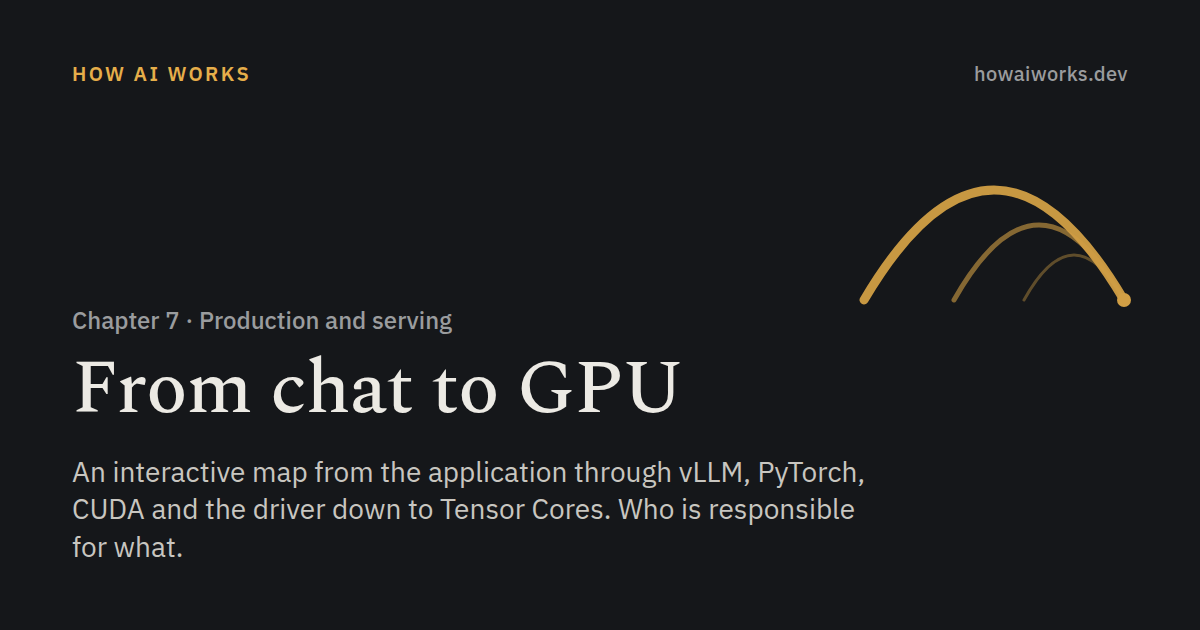
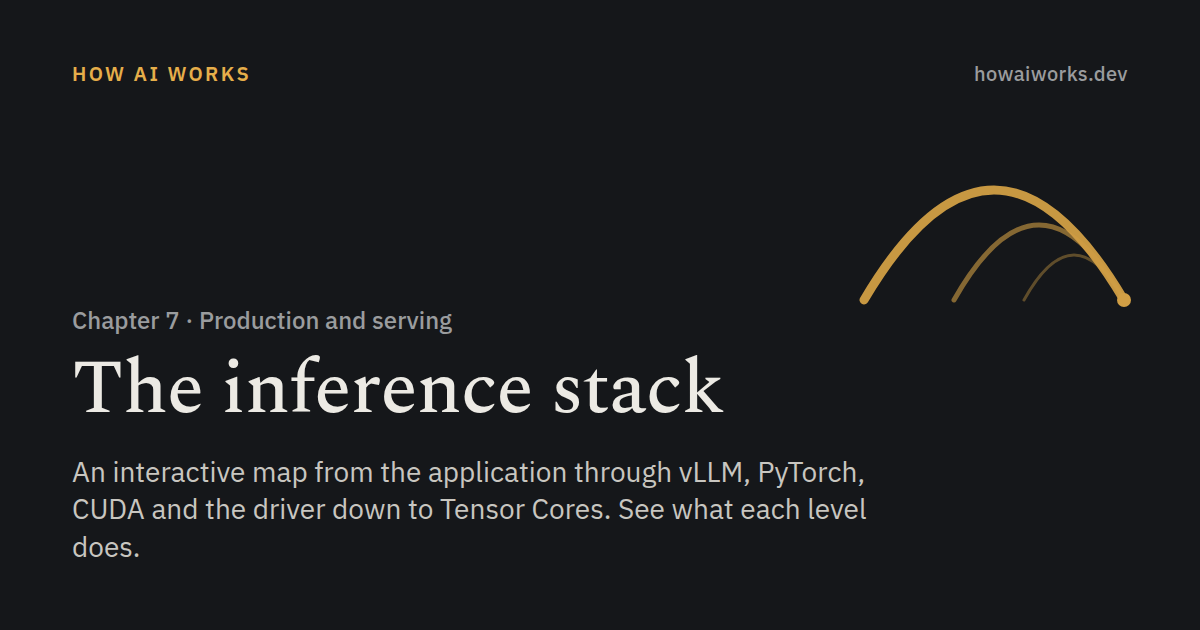
Inference stack: new name, first in the chapter, clearer level descriptions

Changed region(s): [[0.0617, 0.573, 0.6167, 0.6635], [0.4933, 0.7841, 0.74, 0.8444], [0.0617, 0.8444, 0.1542, 0.9048]]

diff --git a/src/scripts/app.js b/src/scripts/app.js
@@ -2168,13 +2168,13 @@ const GEO=[
  n:[['hi',70,22,200,40],['warp',16,106,308,36],['tc',16,150,150,40],['fp',174,150,150,40],['hbm',8,240,216,42],['nvl',232,240,100,42]],
  e:[['170,62 170,106','q','threads',176,80,'start','hi warp'],['70,240 70,198','s','read',76,223,'start','hbm tc fp'],['170,198 170,240','r','wlog',176,223,'start','hbm tc fp'],['282,198 282,240','q',0,0,0,0,'nvl'],['282,282 282,312','q','others',276,304,'end','nvl']]}];
 const T=tr({lv:[
- {n:'System',q:'Kto z kim rozmawia?',fr:'Żądanie raz, odpowiedź strumieniem',dec:'co wysłać do modelu i co zrobić z odpowiedzią',blind:'jak model liczy',rl:'Żądanie HTTP',req:'POST /v1/chat/completions\n{"model": "qwen3", "stream": true,\n "messages": [{"role": "user",\n   "content": "Stolica Polski?"}]}'},
- {n:'Klaster',q:'Która kopia modelu dostanie żądanie?',fr:'Raz na żądanie',dec:'wpuszczenie żądania i wybór repliki',blind:'co dzieje się w replice',fact:'3 repliki × 4 GPU = 12 GPU, po jednej replice na węzeł',rl:'To samo żądanie po bramce',req:'model:   qwen3 -> qwen3-prod\napi_key: ok\nreplica: vllm-2   # jedna z 3'},
- {n:'Serwer',q:'Które rozmowy przetwarzamy w tym kroku?',fr:'Tokenizacja raz, pozostałe operacje co krok dla całego batcha',dec:'skład batcha i przydział pamięci w każdym kroku',blind:'co znaczy tekst: scheduler widzi liczby tokenów i bloki pamięci',rl:'Tokeny i stan rozmowy',req:'prompt_token_ids: [151644, 872, …]\nstatus: WAITING -> RUNNING\nprefill: # prompt, 1 krok lub więcej\ndecode:  # potem po 1 tokenie'},
- {n:'Model',q:'Jak z tokenów powstają logity?',fr:'Co krok, dla całego batcha',dec:'stałą sekwencję operacji, a wynik wyznaczają wagi',blind:'kim są użytkownicy: rozmowy to wiersze w tensorze',rl:'Tensory: 8 rozmów, po 1 nowym tokenie',req:'tokens.shape  = [8, 1]\nhidden.shape  = [8, 1, 4096]\nlogits.shape  = [8, 151936]\nnext_ids.shape = [8]'},
- {n:'Biblioteki',q:'Kto zamienia operację na kod dla GPU?',fr:'Co krok, dla całego batcha',dec:'wybór kodu dla operacji na tensorach i jego uruchomienie',blind:'co znaczą tensory: tokeny rozumowania to zwykłe liczby',rl:'Jedno mnożenie macierzy z attention',req:'y = x @ W          # PyTorch\ngemm(x, W, y)      # cuBLAS\nlaunch(kernel_k)   # CUDA\n# x, W i y są już w pamięci GPU'},
- {n:'Sterownik',q:'Jak polecenie dociera do sprzętu?',fr:'Najpierw przygotowanie zasobów, potem polecenia',dec:'dostęp do GPU, mapowanie pamięci i dostarczenie poleceń',blind:'co robi program: widzi kanały, bufory i adresy',rl:'Uruchomienie kernela jako polecenia',req:'pushbuffer: LAUNCH kernel_k\nGPFIFO:     entry -> pushbuffer\ndoorbell:   write channel_id'},
- {n:'GPU',q:'Co oblicza GPU?',fr:'Co krok, dla całego batcha',dec:'wykonanie poleceń tak szybko, jak pozwala pamięć',blind:'że istnieją tokeny, rozmowy i modele',rl:'Jedna instrukcja',req:'MMA: C = A × B + C\n# pomnóż i dodaj, na małych blokach\n# macierzy, w wielu Tensor Cores naraz'}],
+ {n:'System',q:'Kto z kim rozmawia?',fr:'raz na żądanie, potem odbiera strumień',dec:'wysłanie historii i pokazanie odpowiedzi',blind:'jak powstaje odpowiedź',rl:'Żądanie HTTP',req:'POST /v1/chat/completions\n{"model": "qwen3", "stream": true,\n "messages": [{"role": "user",\n   "content": "Stolica Polski?"}]}'},
+ {n:'Klaster',q:'Która replika dostanie żądanie?',fr:'raz na żądanie',dec:'wpuszczenie żądania i wybór repliki',blind:'jak replika liczy odpowiedź',fact:'3 repliki × 4 GPU = 12 GPU, po jednej replice na węzeł',rl:'To samo żądanie po bramce',req:'model:   qwen3 -> qwen3-prod\napi_key: ok\nreplica: vllm-2   # jedna z 3'},
+ {n:'Serwer',q:'Jak serwer steruje generowaniem?',fr:'tokenizacja raz, reszta w każdym kroku',dec:'tokenizację, skład batcha, pamięć i warunki końca',blind:'co znaczy tekst: scheduler widzi tokeny i bloki pamięci',rl:'Tokeny i stan rozmowy',req:'prompt_token_ids: [151644, 872, …]\nstatus: WAITING -> RUNNING\nprefill: # prompt, 1 krok lub więcej\ndecode:  # potem po 1 tokenie'},
+ {n:'Model',q:'Jak z tokenów powstają logity?',fr:'w każdym kroku',dec:'przeliczenie tokenów na logity przez wagi',blind:'kim są użytkownicy: rozmowy to wiersze w tensorze',rl:'Tensory: 8 rozmów, po 1 nowym tokenie',req:'tokens.shape  = [8, 1]\nhidden.shape  = [8, 1, 4096]\nlogits.shape  = [8, 151936]\nnext_ids.shape = [8]'},
+ {n:'Biblioteki',q:'Kto wybiera i uruchamia kod na GPU?',fr:'w każdym kroku, wiele razy',dec:'wybór kernela i jego uruchomienie',blind:'co znaczą tensory: tokeny rozumowania to zwykłe liczby',rl:'Jedno mnożenie macierzy z attention',req:'y = x @ W          # PyTorch\ngemm(x, W, y)      # cuBLAS\nlaunch(kernel_k)   # CUDA\n# x, W i y są już w pamięci GPU'},
+ {n:'Sterownik',q:'Jak polecenie dociera do GPU?',fr:'najpierw przygotowanie, potem każde polecenie',dec:'mapowanie pamięci i dostarczenie poleceń',blind:'co liczy program: widzi kanały, bufory i adresy',rl:'Uruchomienie kernela jako polecenia',req:'pushbuffer: LAUNCH kernel_k\nGPFIFO:     entry -> pushbuffer\ndoorbell:   write channel_id'},
+ {n:'GPU',q:'Co naprawdę liczy GPU?',fr:'w każdym kroku, wiele razy',dec:'mnożenia macierzy i inne operacje kerneli',blind:'że istnieją tokeny, rozmowy i modele',rl:'Jedna instrukcja',req:'MMA: C = A × B + C\n# pomnóż i dodaj, na małych blokach\n# macierzy, w wielu Tensor Cores naraz'}],
  b:{app:'Twój system',api:'Dostawca albo klaster',cluster:'Klaster Kubernetes',node1:'Węzeł GPU',node2:'Węzeł GPU',node3:'Węzeł GPU',pod:'Pod: jedna replika vLLM',papi:'Proces API',pengine:'Proces silnika',pworker:'Proces roboczy × 4',step:'Jeden krok modelu',layers:'Warstwy (np. 40)',mem:'Pamięć GPU',libs:'Biblioteki z obrazu, w procesie roboczym',ckern:'Kernele GPU',uspace:'Proces roboczy: przestrzeń użytkownika',kernel:'Jądro Linuksa na hoście',gpu:'GPU: czyta polecenia z kanału',card:'NVIDIA H100 SXM5, jeden z 4 w replice',sm:'132 jednostki SM'},
  e:{msg:'wiadomość',text:'tekst',https:'HTTPS: cała historia',sse:'SSE: fragmenty',openai:'format OpenAI',zmq:'ZMQ: tokeny',newtok:'nowe tokeny',step:'rozmowy i maski',picked:'wybrane tokeny',logits:'logity do samplera',matmul:'x @ W',attnk:'attention',launch:'uruchom',todrv:'polecenia do sterownika',once:'inicjalizacja: ioctl, mmap',conf:'konfiguracja',bell:'doorbell: zapis do pamięci',threads:'kernel w wątkach',read:'wagi, KV cache',wlog:'logity',others:'pozostałe 3 GPU'},
  leg:['żądanie','odpowiedź','start, odczyt'],
@@ -2217,13 +2217,13 @@ const T=tr({lv:[
   hbm:['HBM3','80 GB, ok. 3,35 TB/s','Pamięć GPU. Przy generowaniu ogranicza prędkość częściej niż moc obliczeniowa. Szczegóły w „Czemu GPU się nudzi”.'],
   nvl:['NVLink','900 GB/s','Łącze między GPU tej samej repliki. Przy tensor parallelism GPU wymieniają nim wyniki pośrednie w każdym kroku.']}
 },{lv:[
- {n:'System',q:'Who talks to whom?',fr:'Request once, response streamed',dec:'what to send to the model and what to do with the answer',blind:'how the model computes',rl:'HTTP request',req:'POST /v1/chat/completions\n{"model": "qwen3", "stream": true,\n "messages": [{"role": "user",\n   "content": "Capital of Poland?"}]}'},
- {n:'Cluster',q:'Which copy of the model gets the request?',fr:'Once per request',dec:'admitting the request and picking a replica',blind:'what happens in a replica',fact:'3 replicas × 4 GPUs = 12 GPUs, one replica per node',rl:'The same request after the gateway',req:'model:   qwen3 -> qwen3-prod\napi_key: ok\nreplica: vllm-2   # one of 3'},
- {n:'Server',q:'Which conversations run in this step?',fr:'Tokenisation once per request, other work at every step',dec:'batch composition and memory allocation at each step',blind:'what the text means: the scheduler sees token counts and memory blocks',rl:'Tokens and conversation state',req:'prompt_token_ids: [151644, 872, …]\nstatus: WAITING -> RUNNING\nprefill: # the prompt, 1 step or more\ndecode:  # then 1 token each'},
- {n:'Model',q:'How do tokens become logits?',fr:'At every step, for the whole batch',dec:'running a fixed sequence of operations; the weights set the result',blind:'who the users are: conversations are rows in a tensor',rl:'Tensors: 8 conversations, 1 new token each',req:'tokens.shape  = [8, 1]\nhidden.shape  = [8, 1, 4096]\nlogits.shape  = [8, 151936]\nnext_ids.shape = [8]'},
- {n:'Libraries',q:'What turns an operation into GPU code?',fr:'At every step, for the whole batch',dec:'choosing the code for a tensor operation and launching it',blind:'what the tensors mean: reasoning tokens are plain numbers',rl:'One matrix multiplication from attention',req:'y = x @ W          # PyTorch\ngemm(x, W, y)      # cuBLAS\nlaunch(kernel_k)   # CUDA\n# x, W and y are already in GPU memory'},
- {n:'Driver',q:'How does a command reach the hardware?',fr:'Resources set up first, then commands',dec:'access to the GPU, memory mapping and delivering commands',blind:'what the program does: it sees channels, buffers and addresses',rl:'A kernel launch as a command',req:'pushbuffer: LAUNCH kernel_k\nGPFIFO:     entry -> pushbuffer\ndoorbell:   write channel_id'},
- {n:'GPU',q:'What does the GPU compute?',fr:'At every step, for the whole batch',dec:'running commands as fast as memory allows',blind:'that tokens, conversations and models exist',rl:'One instruction',req:'MMA: C = A × B + C\n# multiply and add, on small matrix\n# blocks, in many Tensor Cores at once'}],
+ {n:'System',q:'Who talks to whom?',fr:'once per request, then receives the stream',dec:'sending the history and showing the answer',blind:'how the answer is produced',rl:'HTTP request',req:'POST /v1/chat/completions\n{"model": "qwen3", "stream": true,\n "messages": [{"role": "user",\n   "content": "Capital of Poland?"}]}'},
+ {n:'Cluster',q:'Which replica gets the request?',fr:'once per request',dec:'admitting the request and picking a replica',blind:'how a replica computes the answer',fact:'3 replicas × 4 GPUs = 12 GPUs, one replica per node',rl:'The same request after the gateway',req:'model:   qwen3 -> qwen3-prod\napi_key: ok\nreplica: vllm-2   # one of 3'},
+ {n:'Server',q:'How does the server control generation?',fr:'tokenising once, the rest at every step',dec:'tokenisation, the batch, memory and stop checks',blind:'what the text means: the scheduler sees tokens and memory blocks',rl:'Tokens and conversation state',req:'prompt_token_ids: [151644, 872, …]\nstatus: WAITING -> RUNNING\nprefill: # the prompt, 1 step or more\ndecode:  # then 1 token each'},
+ {n:'Model',q:'How do tokens become logits?',fr:'at every step',dec:'turning tokens into logits using the weights',blind:'who the users are: conversations are rows in a tensor',rl:'Tensors: 8 conversations, 1 new token each',req:'tokens.shape  = [8, 1]\nhidden.shape  = [8, 1, 4096]\nlogits.shape  = [8, 151936]\nnext_ids.shape = [8]'},
+ {n:'Libraries',q:'What picks and launches GPU code?',fr:'at every step, many times',dec:'choosing a kernel and launching it',blind:'what the tensors mean: reasoning tokens are plain numbers',rl:'One matrix multiplication from attention',req:'y = x @ W          # PyTorch\ngemm(x, W, y)      # cuBLAS\nlaunch(kernel_k)   # CUDA\n# x, W and y are already in GPU memory'},
+ {n:'Driver',q:'How does a command reach the GPU?',fr:'setup first, then every command',dec:'memory mapping and delivering commands',blind:'what the program computes: it sees channels, buffers and addresses',rl:'A kernel launch as a command',req:'pushbuffer: LAUNCH kernel_k\nGPFIFO:     entry -> pushbuffer\ndoorbell:   write channel_id'},
+ {n:'GPU',q:'What does the GPU actually compute?',fr:'at every step, many times',dec:'matrix multiplications and other kernel operations',blind:'that tokens, conversations and models exist',rl:'One instruction',req:'MMA: C = A × B + C\n# multiply and add, on small matrix\n# blocks, in many Tensor Cores at once'}],
  b:{app:'Your system',api:'Provider or your cluster',cluster:'Kubernetes cluster',node1:'GPU node',node2:'GPU node',node3:'GPU node',pod:'Pod: one vLLM replica',papi:'API process',pengine:'Engine process',pworker:'Worker × 4',step:'One model step',layers:'Layers (e.g. 40)',mem:'GPU memory',libs:'Libraries from the image, in the worker',ckern:'Compute kernels',uspace:'Worker process: user space',kernel:'Linux kernel on the host',gpu:'GPU: reads commands from the channel',card:'NVIDIA H100 SXM5, one of 4 in the replica',sm:'132 SM units'},
  e:{msg:'message',text:'text',https:'HTTPS: full history',sse:'SSE: fragments',openai:'OpenAI format',zmq:'ZMQ: tokens',newtok:'new tokens',step:'conversations, masks',picked:'picked tokens',logits:'logits to the sampler',matmul:'x @ W',attnk:'attention',launch:'launch',todrv:'commands to the driver',once:'initialisation: ioctl, mmap',conf:'configuration',bell:'doorbell: memory write',threads:'kernel in threads',read:'weights, KV cache',wlog:'logits',others:'the other 3 GPUs'},
  leg:['request','response','setup, reads'],
@@ -2335,8 +2335,8 @@ view.append(head,main,req);
 const lvBtns=T.lv.map((v,i)=>h('button',{type:'button',class:'opt','aria-label':tr('Poziom ','Level ')+(i+1)+': '+v.n,onclick:()=>{if(i!==cur)pl.set(ST.findIndex(s=>s[0]===i));}},h('b',{},i+1),h('small',{},v.n)));nav.append(...lvBtns);
 const draw=()=>{const l=T.lv[cur],g=GEO[cur],[name,,text]=T.n[sel];
   lvBtns.forEach((e,i)=>e.setAttribute('aria-pressed',i===cur?'true':'false'));
-  head.replaceChildren(...[h('p',{class:'sk-head'},h('b',{},tr('Poziom ','Level ')+(cur+1)+'. '+l.n),' '+l.q),h('p',{class:'sk-freq'},l.fr),
-    h('dl',{class:'id-res sk-res'},h('div',{},h('dt',{},tr('Odpowiada za','Responsible for')),h('dd',{},l.dec)),h('div',{},h('dt',{},tr('Nie wie','Doesn’t know')),h('dd',{},l.blind))),
+  head.replaceChildren(...[h('p',{class:'sk-head'},h('b',{},tr('Poziom ','Level ')+(cur+1)+'. '+l.n),' '+l.q),
+    h('dl',{class:'id-res sk-res'},h('div',{},h('dt',{},tr('Odpowiada za','Responsible for')),h('dd',{},l.dec)),h('div',{},h('dt',{},tr('Nie wie','Doesn’t know')),h('dd',{},l.blind)),h('div',{},h('dt',{},tr('Kiedy działa','When it runs')),h('dd',{},l.fr))),
     l.fact?h('p',{class:'sk-fact'},l.fact):null].filter(Boolean));
   fig.replaceChildren(diagram(g));
   detail.replaceChildren(h('p',{},h('b',{},name+'. '),free?text:ST[step][2]));

diff --git a/src/data.js b/src/data.js
@@ -48,7 +48,7 @@ const GROUPS=[
  ['Kontekst i wiedza','Co włożyć do okna kontekstu i jak to znaleźć w swoich danych.',['kontekst','kompakcja','embeddingi','rag']],
  ['Agenci','Model w pętli: narzędzia, standard ich podłączania, wymuszony format, harness agenta kodującego i podział pracy.',['agent','narzedzia','mcp','format','harness','multiagent']],
  ['Jakość i bezpieczeństwo','Zmyślenia, mierzenie jakości zamiast oceny na oko, ataki ukryte w treści i tożsamość agenta.',['halucynacje','evals','injection','tozsamosc']],
- ['Model na produkcji','Niezawodny system wokół modelu, droga żądania aż do GPU i to, co dzieje się w serwerowni.',['produkcja','stos','roofline','batching','spec','kwantyzacja','moe']],
+ ['Model na produkcji','Niezawodny system wokół modelu, droga żądania aż do GPU i to, co dzieje się w serwerowni.',['stos','produkcja','roofline','batching','spec','kwantyzacja','moe']],
  ['Wybór modelu','Jak dobrać model do zadania, otwarte wagi, alternatywy dla LLM-a i to, czemu model bywa „głupszy”.',['wybor','openweight','jev','compute']],
  ['Ćwiczenia i powtórka','Zadania projektowe i fiszki do powtórki.',['design','fiszki']]];
 Object.assign(ST,{
@@ -387,11 +387,11 @@ HUES.wybor='tok';
 /* end wybor */
 const TITLES={design:'Zaprojektuj system',fiszki:'Fiszki'};
 const titleOf=id=>TITLES[id]||ST[id].t;
-Object.assign(ST,{stos:{t:'Od czatu do GPU',q:'Co dzieje się z żądaniem od aplikacji aż do GPU i kto za co odpowiada?',
+Object.assign(ST,{stos:{t:'Stos inferencji',q:'Co dzieje się z żądaniem od aplikacji aż do GPU i kto za co odpowiada?',
  pl:'Aplikacja wysyła całą historię przez HTTP. Bramka sprawdza klucz i limity, a router wybiera replikę. W serwerze inferencji proces API stosuje szablon czatu i tokenizuje tekst, scheduler co krok układa batch, a worker uruchamia model. Model wykonuje głównie mnożenia macierzy z wagami. PyTorch albo serwer inferencji wybiera dla nich gotowe programy GPU, czyli kernele GPU, np. z cuBLAS, a CUDA je uruchamia. Jądro Linuksa przygotowuje kanały i mapuje pamięć, a potem sterownik zapisuje polecenia w buforze i powiadamia GPU bez wywołania systemowego. Tensor Cores mogą przyspieszać mnożenia na GPU. W drodze powrotnej sampler wybiera token z logitów, proces API zamienia go na tekst i wysyła zdarzenie SSE. Pętla trwa do spełnienia warunku końca. Rozumowanie nie ma osobnego poziomu: to zwykłe tokeny generowane przez model.',
  en:'The application sends the whole history over HTTP. A gateway checks the key and limits, and a router picks a replica. In the inference server, the API process applies the chat template and tokenises the text, the scheduler builds a batch at every step, and a worker runs the model. The model uses its weights in matrix multiplications. PyTorch or the inference server picks ready-made GPU programs for them, compute kernels such as those in cuBLAS, and CUDA launches them. The Linux kernel sets up channels and maps memory, and then the driver writes commands to a buffer and notifies the GPU with no system call. The GPU can accelerate multiplications using Tensor Cores. On the way back the sampler picks a token from the logits, and the API process turns it into text and sends an SSE event. The loop runs until a stop condition is met. Reasoning has no separate level: it is ordinary tokens the model generates.'}});
 HUES.stos='cost';
-Object.assign(X,{stos:{ht:'Od czatu do GPU: cały stos LLM poziom po poziomie',d:'Interaktywna mapa od aplikacji przez vLLM, PyTorch, CUDA i sterownik aż do Tensor Cores. Kto za co odpowiada.',lay:'Mapa z przybliżaniem. Na pierwszym poziomie widać aplikację i API, a głębiej to samo żądanie ma postać tokenów, tabel liczb, poleceń dla sprzętu i pojedynczych mnożeń.',
+Object.assign(X,{stos:{ht:'Stos inferencji LLM: od API do GPU',d:'Interaktywna mapa od aplikacji przez vLLM, PyTorch, CUDA i sterownik aż do Tensor Cores. Kto za co odpowiada.',lay:'Mapa z przybliżaniem. Na pierwszym poziomie widać aplikację i API, a głębiej to samo żądanie ma postać tokenów, tabel liczb, poleceń dla sprzętu i pojedynczych mnożeń.',
  f:[['Czy CUDA wie, że model rozumuje?','Nie. CUDA uruchamia kernele na tensorach. To, czy kolejne tokeny są rozumowaniem, wynika z promptu, dotychczasowych tokenów i wag, a oddzielenie ich od odpowiedzi to praca parsera po stronie serwera.'],
   ['Kontener zgłasza zbyt stary sterownik, choć na hoście jest CUDA Toolkit. Co sprawdzasz?','Sam Toolkit nie ma tu znaczenia. Liczy się sterownik hosta, czyli <code>libcuda.so</code> i moduł jądra, oraz wersja bibliotek CUDA w obrazie. Zaktualizuj sterownik albo użyj obrazu zbudowanego na starszą wersję CUDA.'],
   ['Czemu zwykłe uruchomienie kernela nie wymaga wywołania systemowego?','Przy tworzeniu zasobów jądro Linuksa mapuje procesowi bufory poleceń i doorbell. Potem sterownik w przestrzeni użytkownika zapisuje polecenia w pamięci i powiadamia GPU zapisem do doorbella, bez przełączania CPU do trybu jądra przy każdej operacji. Opis tej ścieżki pochodzi z badań, bo NVIDIA nie dokumentuje jej publicznie.'],

diff --git a/src/data.en.js b/src/data.en.js
@@ -19,7 +19,7 @@ export const SLUG_EN = {
   kontekst: 'context-engineering', kompakcja: 'context-compaction', embeddingi: 'embeddings', agent: 'agent-loop', narzedzia: 'tool-calling',
   format: 'structured-output', harness: 'coding-agent-harness', multiagent: 'multi-agent', halucynacje: 'hallucinations',
   injection: 'prompt-injection', tozsamosc: 'agent-identity', produkcja: 'llms-in-production', batching: 'continuous-batching', spec: 'speculative-decoding',
-  stos: 'from-chat-to-gpu',
+  stos: 'inference-stack',
   kwantyzacja: 'quantization', moe: 'mixture-of-experts', wybor: 'choosing-a-model', openweight: 'open-weight-models',
   jev: 'when-not-to-use-an-llm', destylacja: 'distillation', design: 'system-design', fiszki: 'flashcards',
 };
@@ -332,9 +332,9 @@ X_EN.roofline = { ht: 'Why LLM decode is memory-bound: roofline model explained'
   r: [['How To Scale Your Model: All About Rooflines', 'https://jax-ml.github.io/scaling-book/roofline'], ['How To Scale Your Model: All About Transformer Inference', 'https://jax-ml.github.io/scaling-book/inference'], ['Databricks: LLM Inference Performance Engineering (MBU)', 'https://www.databricks.com/blog/llm-inference-performance-engineering-best-practices'], ['NVIDIA: H100 specifications', 'https://www.nvidia.com/en-us/data-center/h100/']] };
 /* end roofline */
 /* stos */
-ST_EN.stos = { t: 'From chat to GPU', q: 'How does a request reach the GPU, and what does each level do?',
+ST_EN.stos = { t: 'The inference stack', q: 'How does a request reach the GPU, and what does each level do?',
   a: 'The application sends the whole history over HTTP. A gateway checks the key and limits, and a router picks a replica. In the inference server, the API process applies the chat template and tokenises the text, the scheduler builds a batch at every step, and a worker runs the model. The model uses its weights in matrix multiplications. PyTorch or the inference server picks ready-made GPU programs for them, compute kernels such as those in cuBLAS, and CUDA launches them. The Linux kernel sets up channels and maps memory, and then the driver writes commands to a buffer and notifies the GPU with no system call. The GPU can accelerate multiplications using Tensor Cores. On the way back the sampler picks a token from the logits, and the API process turns it into text and sends an SSE event. The loop runs until a stop condition is met. Reasoning has no separate level: it is ordinary tokens the model generates.' };
-X_EN.stos = { ht: 'From chat to GPU: the whole LLM stack, level by level', d: 'An interactive map from the application through vLLM, PyTorch, CUDA and the driver down to Tensor Cores. See what each level does.',
+X_EN.stos = { ht: 'The LLM inference stack: from API to GPU', d: 'An interactive map from the application through vLLM, PyTorch, CUDA and the driver down to Tensor Cores. See what each level does.',
   lay: 'A map you can zoom into. At the top level you see the application and the API; deeper down, the same request appears as tokens, tables of numbers, hardware commands and individual multiplications.',
   f: [['Does CUDA know the model is reasoning?', 'No. CUDA launches kernels on tensors. Whether the next tokens are reasoning comes from the prompt, the tokens so far and the weights, and separating them from the answer is the job of a server-side parser.'],
     ['A container reports a driver that is too old, although the host has the CUDA Toolkit. What do you check?', 'The Toolkit doesn’t matter here. What counts is the host driver, <code>libcuda.so</code> and the kernel module, and the version of the CUDA libraries in the image. Update the driver or use an image built for an older CUDA.'],

diff --git a/src/changelog.js b/src/changelog.js
@@ -6,8 +6,8 @@ export const CHANGELOG = [
     date: '2026-11-02',
     added: ['stos'],
     updated: [],
-    en: 'New topic: From chat to GPU. A zoomable map follows one request through seven levels: application, cluster, vLLM, model, libraries, driver and GPU. It shows what each level is responsible for, what it can’t see and how the request appears at that level. Notes cover the way back, where reasoning lives, and what sits in the container image and on the host.',
-    pl: 'Nowy temat: Od czatu do GPU. Mapa z przybliżaniem prowadzi jedno żądanie przez siedem poziomów, od aplikacji przez klaster, vLLM, model, biblioteki i sterownik do GPU. Pokazuje, za co odpowiada każdy poziom, czego nie widzi i jak wygląda tam żądanie. Notki opisują drogę powrotną, rolę rozumowania oraz to, co zawiera obraz kontenera, a co jest na hoście.',
+    en: 'New topic: The inference stack. Diagrams of seven levels and a 23-step walk follow one answer from the API through the server, model, libraries and driver to the GPU and back, including the control loop that repeats for every token. Notes cover reasoning, what goes in the container image and on the host, and how to narrow a symptom down to a level.',
+    pl: 'Nowy temat: Stos inferencji. Diagramy siedmiu poziomów i 23 kroki prowadzą jedną odpowiedź od API przez serwer, model, biblioteki i sterownik do GPU i z powrotem, razem z pętlą kontrolną, która powtarza się dla każdego tokena. Notki opisują rozumowanie, zawartość obrazu kontenera i hosta oraz to, jak po objawie wskazać poziom.',
   },
   {
     date: '2026-11-01',

diff --git a/src/styles/global.css b/src/styles/global.css
@@ -997,8 +997,7 @@ svg{display:block;max-width:100%;height:auto}
 .sk-nav small{display:none}
 .sk-head{color:var(--muted)}
 .sk-head b{color:var(--ink)}
-.sk-freq{font-size:.8rem;color:var(--muted)}
-.id-res.sk-res{grid-template-columns:repeat(2,minmax(0,1fr));margin-top:8px}
+.id-res.sk-res{margin-top:8px}
 .sk-res dd{font-weight:400;font-size:.92rem}
 .sk-fact{margin-top:10px;font-weight:600;font-size:.95rem}
 .sk-d{max-width:460px;margin:12px auto 0}
@@ -1032,6 +1031,5 @@ marker .q{fill:var(--hue)}marker .r{fill:var(--prob)}marker .s{fill:var(--muted)
 .sk-li.s{border-top:2px dotted var(--muted)}
 .sk-rl{margin-top:14px;font-size:.8rem;color:var(--muted)}
 .sk-req{margin:4px 0 0;padding:10px 12px;border-radius:8px;background:var(--sunken);font:400 .8rem/1.45 var(--mono);white-space:pre-wrap;overflow-wrap:anywhere}
-@media (max-width:600px){.id-res.sk-res{grid-template-columns:1fr}}
 @media (min-width:860px){.sk-nav small{display:block}.sk-main{display:grid;grid-template-columns:minmax(0,3fr) minmax(0,2fr);gap:20px;align-items:start}.sk-main>:last-child{position:sticky;top:76px;margin-top:12px}}
 /* end stos */

diff --git a/src/stations/stos.html b/src/stations/stos.html
@@ -1,5 +1,5 @@
 <section class="station" id="stos" data-hue="cost">
-  <h2>Od czatu do GPU</h2>
+  <h2>Stos inferencji</h2>
   <p class="lede">Zanim model odpowie na wiadomość z czatu, żądanie przechodzi przez bramkę, serwer inferencji, model, biblioteki, sterownik i procesor graficzny. Każdy z tych poziomów odpowiada za co innego i wie niewiele o pozostałych.</p>
   <p>Gdy odpowiedź przychodzi wolno albo serwerowi brakuje pamięci, samo API nie wskazuje przyczyny. Podział stosu na poziomy pokazuje, który element sprawdzić.</p>
   <div class="lab" id="skLab">

diff --git a/src/stations/en/stos.html b/src/stations/en/stos.html
@@ -1,5 +1,5 @@
 <section class="station" id="stos" data-hue="cost">
-  <h2>From chat to GPU</h2>
+  <h2>The inference stack</h2>
   <p class="lede">Before the model answers a chat message, the request passes through a gateway, an inference server, the model, libraries, a driver and the GPU. Each level has its own job and knows little about the others.</p>
   <p>When an answer arrives slowly or the server runs out of memory, the API alone doesn’t reveal the cause. Dividing the stack into levels shows which component to inspect.</p>
   <div class="lab" id="skLab">
